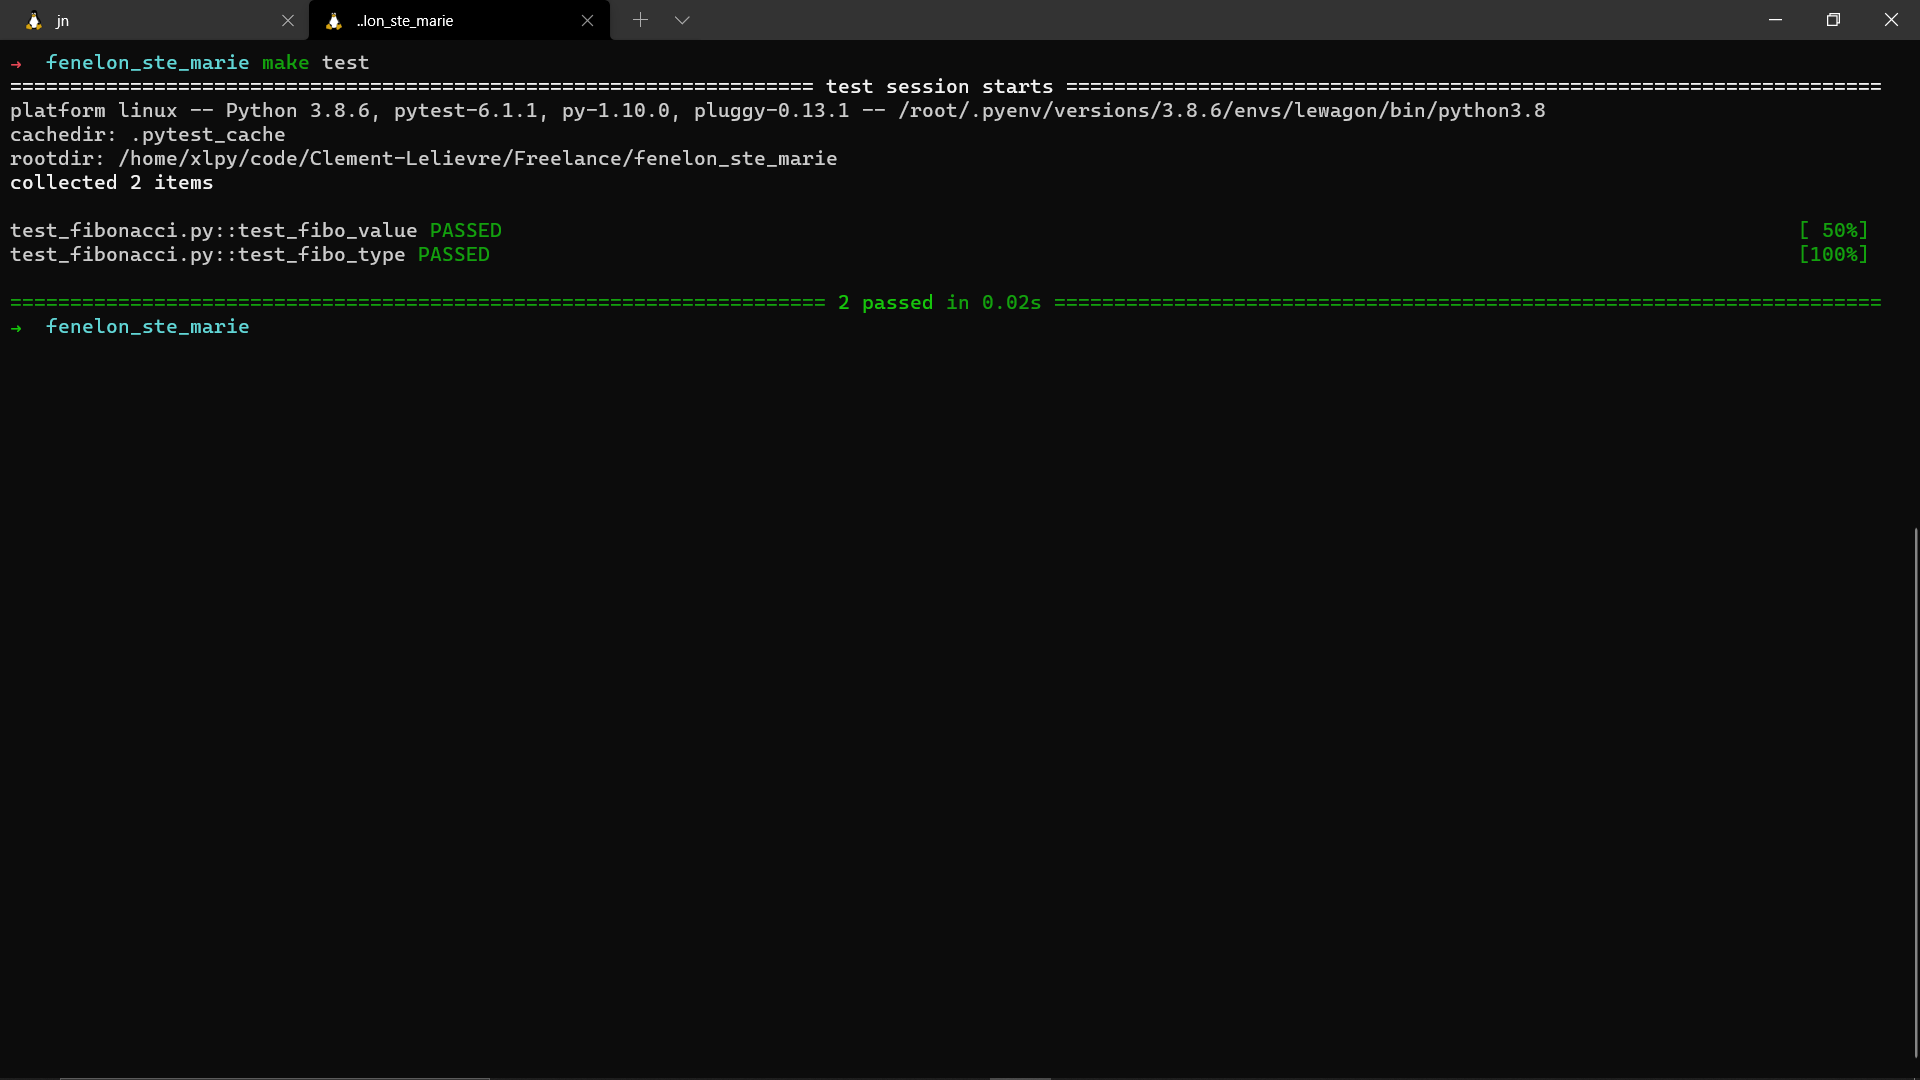
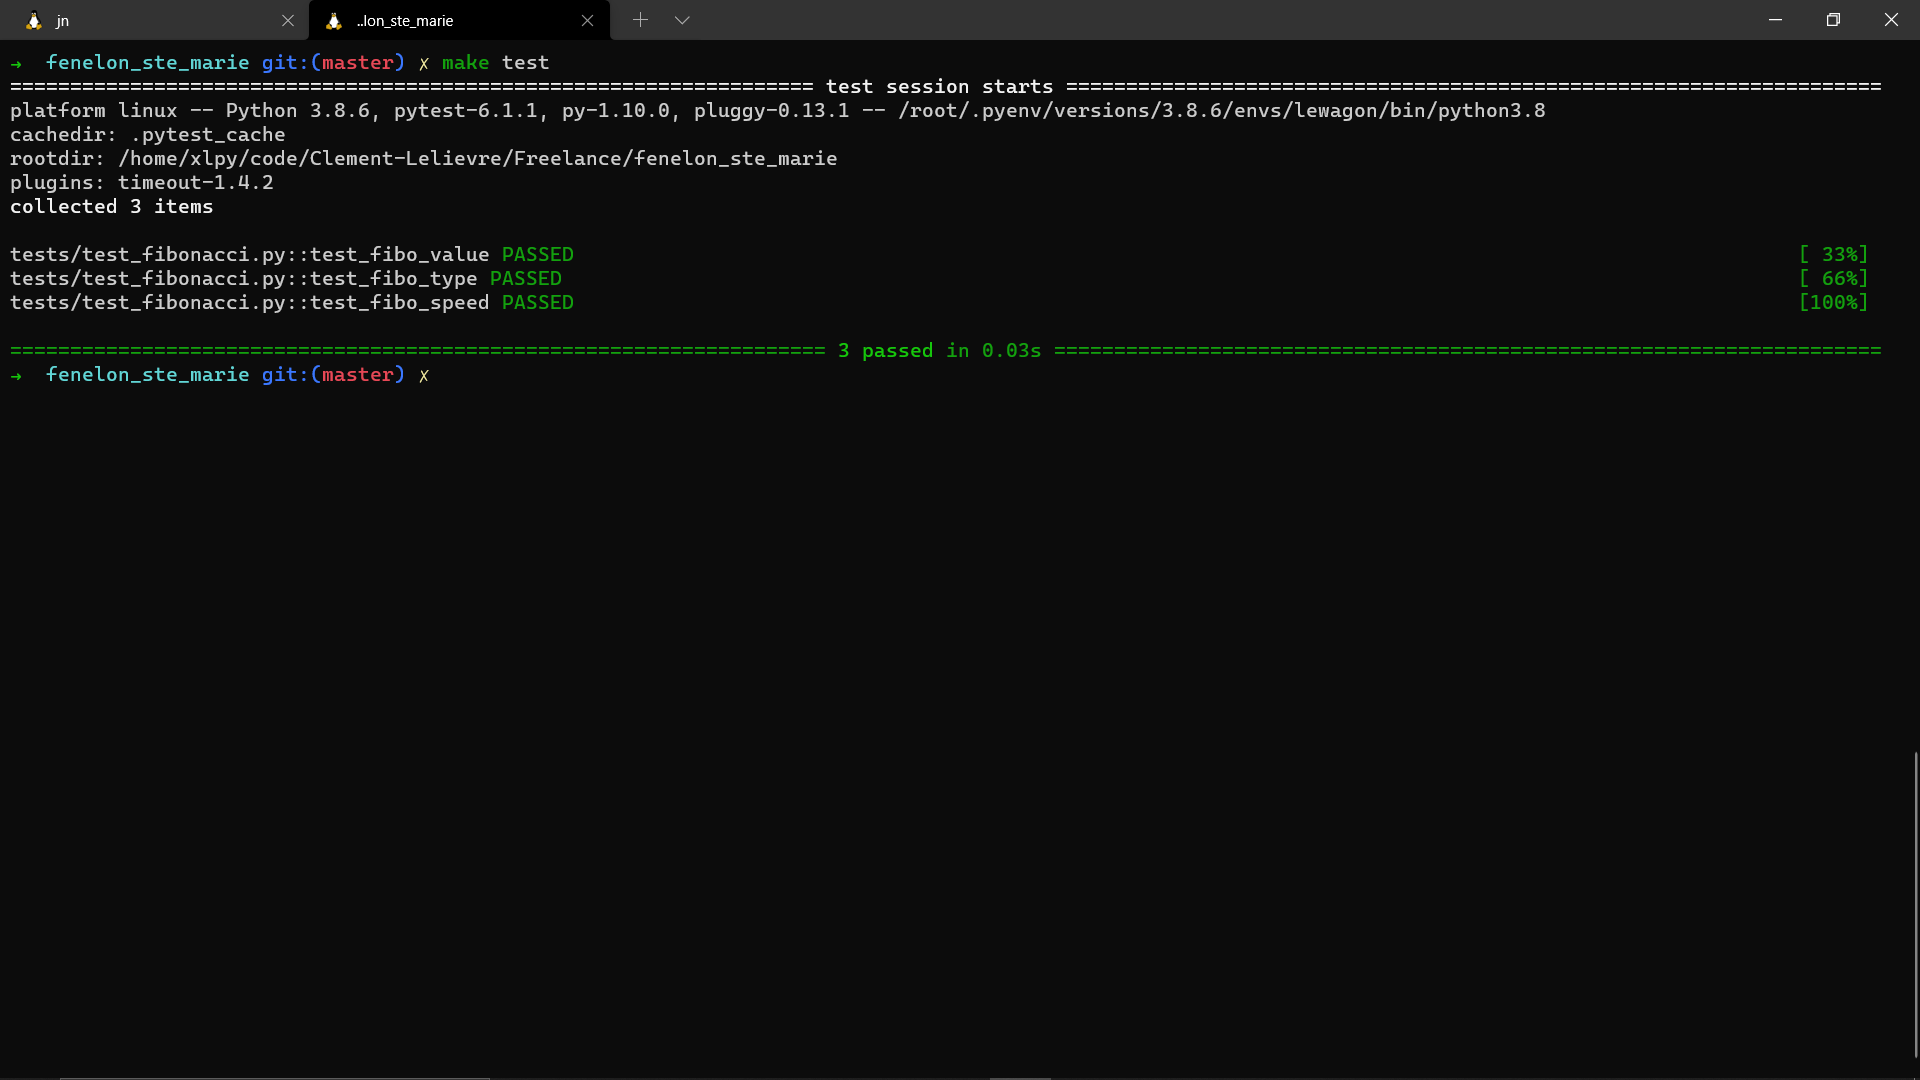
test runtime with pytest-timeout

diff --git a/tests/test_fibonacci.py b/tests/test_fibonacci.py
@@ -3,25 +3,32 @@ sys.path.append(os.path.dirname(os.path.dirname(os.path.abspath(__file__))))
 from fibonacci import fibo
 import pytest
 from math import sqrt
+from time import time
 
-def fib_recursive(n):  # this recursive definition is very slow as the same values are recalculated many times
-    fib0, fib1 = 0, 1
-    if n == 0:
-        return fib0
-    if n == 1:
-        return fib1
-    return fib(n-2) + fib(n-1)
+# def fib_recursive(n):  # this recursive definition is very slow as the same values are recalculated many times
+#     fib0, fib1 = 0, 1
+#     if n == 0:
+#         return fib0
+#     if n == 1:
+#         return fib1
+#     return fib(n-2) + fib(n-1)
 
 def fib_exact(n):
+    '''The closed-form solution to the Fibonacci series'''
     a,b = (1+sqrt(5))/2, (1-sqrt(5))/2
     return int((a**n - b**n)/sqrt(5))
 
 # testing the fibo function
 
 def test_fibo_value():
-    for i in range(0,10**1):
+    for i in range(10):
         assert fibo(i) == fib_exact(i)
         
 def test_fibo_type():
-    for i in range(0,10**1):
+    for i in range(10):
         assert isinstance(fibo(i), int)
+
+@pytest.mark.timeout(1)
+def test_fibo_speed():
+    '''This function tests whether the 100th term of the Fibonacci series is calculated in under a second'''
+    assert fibo(1000) == fib_exact(1000)

diff --git a/tests/test_func.py b/tests/test_func.py
@@ -1,6 +1,6 @@
-from func import f, g
-import pytest
-from random import randint
+# from func import f, g
+# import pytest
+# from random import randint
 
 # # testing f
 # def test_argument_positif():
